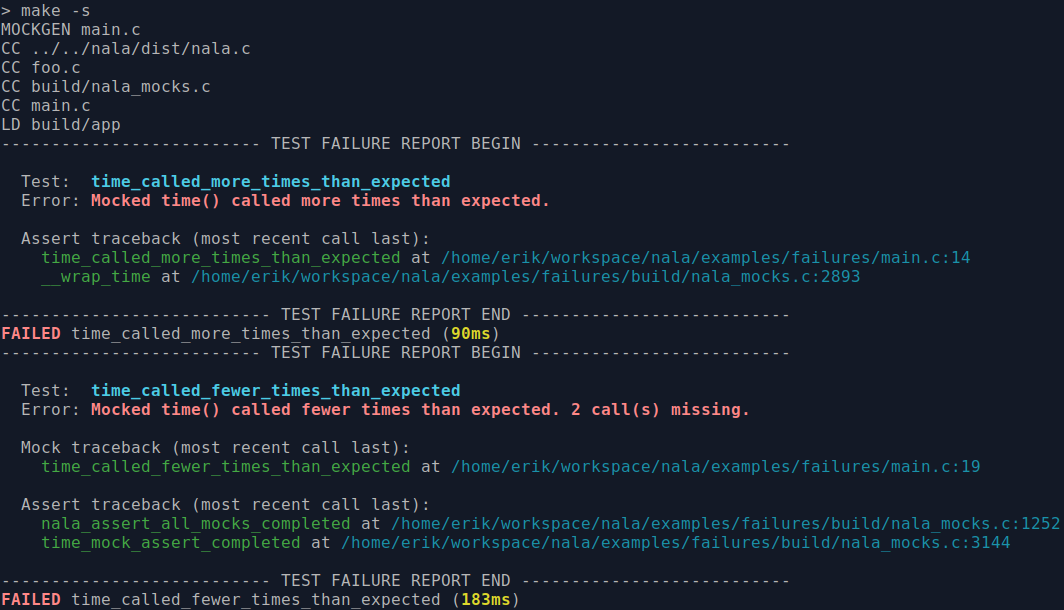
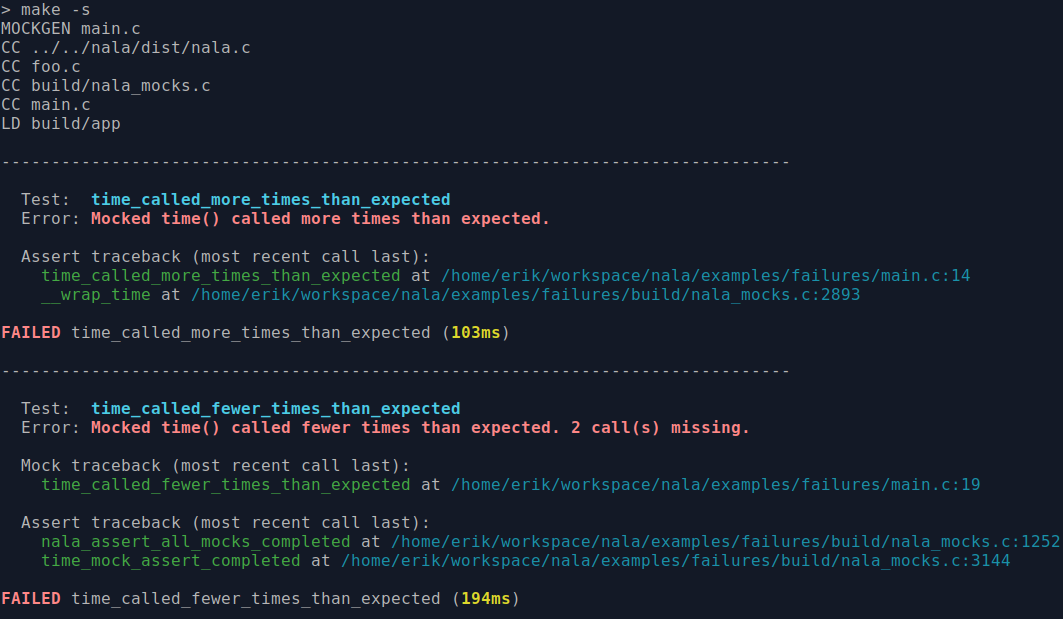
Failure report styling.

diff --git a/nala/dist/nala.c b/nala/dist/nala.c
@@ -583,18 +583,16 @@ static float timeval_to_ms(struct timeval *timeval_p)
 
 static void print_test_failure_report_begin(void)
 {
-    printf("-------------------------- "
-           "TEST FAILURE REPORT BEGIN "
-           "--------------------------\n");
+    printf("\n"
+           "------------------------------"
+           "--------------------"
+           "-----------------------------\n");
     printf("\n");
 }
 
 static void print_test_failure_report_end(void)
 {
     printf("\n");
-    printf("--------------------------- "
-           "TEST FAILURE REPORT END "
-           "---------------------------\n");
 }
 
 static void print_signal_failure(struct nala_test_t *test_p)

diff --git a/src/nala.c b/src/nala.c
@@ -277,18 +277,16 @@ static float timeval_to_ms(struct timeval *timeval_p)
 
 static void print_test_failure_report_begin(void)
 {
-    printf("-------------------------- "
-           "TEST FAILURE REPORT BEGIN "
-           "--------------------------\n");
+    printf("\n"
+           "------------------------------"
+           "--------------------"
+           "-----------------------------\n");
     printf("\n");
 }
 
 static void print_test_failure_report_end(void)
 {
     printf("\n");
-    printf("--------------------------- "
-           "TEST FAILURE REPORT END "
-           "---------------------------\n");
 }
 
 static void print_signal_failure(struct nala_test_t *test_p)

diff --git a/include/nala.h b/include/nala.h
@@ -6,7 +6,7 @@
 #include <stdint.h>
 #include <stdio.h>
 
-#define NALA_VERSION "0.138.0"
+#define NALA_VERSION "0.139.0"
 
 /**
  * Assert that given characters, numbers, pointers or strings are

diff --git a/nala/dist/nala.h b/nala/dist/nala.h
@@ -6,7 +6,7 @@
 #include <stdint.h>
 #include <stdio.h>
 
-#define NALA_VERSION "0.138.0"
+#define NALA_VERSION "0.139.0"
 
 /**
  * Assert that given characters, numbers, pointers or strings are

diff --git a/nala/version.py b/nala/version.py
@@ -1,1 +1,1 @@
-__version__ = '0.138.0'
+__version__ = '0.139.0'
